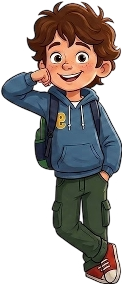
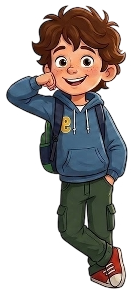
Crop kid.png padding so it sticks to the wordmark 'n' at any resolution
The source PNG had ~216px of transparent padding to the boy's left, so
even text-anchored the visible figure sat offset from the letters. Trim
the image to the boy's bounds and retune sizing so his elbow rests on the
'n' consistently across desktop, mobile, and ultrawide widths.

Changed region(s): [[0.0, 0.0, 1.0, 1.0], [0.3197, 0.1408, 0.3443, 0.169]]

diff --git a/src/login/auth_shell.css b/src/login/auth_shell.css
@@ -92,10 +92,10 @@
   position: absolute;
   z-index: 3;
   pointer-events: none;
-  height: clamp(84px, 11vw, 116px);
+  height: clamp(76px, 10vw, 104px);
   left: 100%;
-  bottom: -0.08em;
-  margin-left: -0.34em;
+  bottom: -0.02em;
+  margin-left: -0.06em;
   filter: drop-shadow(0 8px 16px rgba(0, 0, 0, 0.5));
 }
 .as-wordmark .as-accent {
@@ -162,12 +162,12 @@
   /* Keep the kid but scale it down and tuck it to the wordmark's right edge
      so it doesn't crowd the centered stack on small screens. */
   .as-kid {
-    height: clamp(58px, 15vw, 82px);
+    height: clamp(52px, 13vw, 74px);
     left: 100%;
     right: auto;
     top: auto;
-    bottom: -0.05em;
-    margin-left: -0.28em;
+    bottom: -0.02em;
+    margin-left: -0.05em;
   }
   .as-side {
     flex: 1 0 auto;
